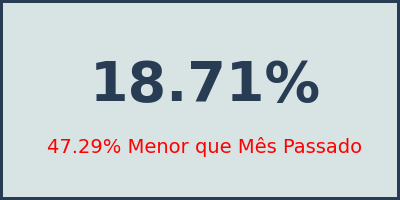
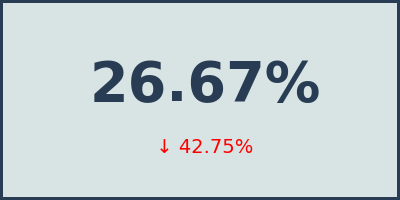
alteracoes e detalhes

diff --git a/clientes.py b/clientes.py
@@ -204,11 +204,11 @@ with fig_col1:
     fig.set_figheight(7)
 
 
-    plot_data[['Leads', 'Vendas']].plot(kind='bar', ax=ax,colormap='Paired')
+    plot_data[['Leads', 'Vendas']].plot(kind='bar', ax=ax, color=['#289c84', '#283c54'])
     plot_data['Proporção'].plot(kind='line', ax=ax, secondary_y=True, color='#289c84', marker='o')
 
     # Configurações do gráfico
-    ax.set_xlabel('Mês (Ano, Mês)')
+    ax.set_xlabel('Ano, Mês')
     ax.set_ylabel('Quantidade de Vendas')
     ax.right_ax.set_ylabel('Proporção de Conversão (Vendas / Leads)')
     plt.xticks(rotation=45)
@@ -234,7 +234,7 @@ with fig_col2:
     fig.set_linewidth(4)
     fig.set_edgecolor('#283c54')
     fig.set_figheight(6.5)
-    ax.hist(imoveis_a_venda['precoVenda'], bins=30, color='#289c84', edgecolor='black')
+    ax.hist(imoveis_a_venda['precoVenda'], bins=30, color='#283c54', edgecolor='black')
     
     # Adicionando a legenda com a quantidade de imóveis
     plt.text(x=max(imoveis_a_venda['precoVenda']), y=0.9*plt.gca().get_ylim()[1], s=f'Total de Imóveis: {total_imoveis}', 
@@ -243,7 +243,7 @@ with fig_col2:
     # Configurando título e eixos
 
     plt.xlabel('Preço de Venda')
-    plt.ylabel('Quantidade')
+    plt.ylabel('Quantidade de Imoveis')
     plt.grid(False)
 
     # Exibir o gráfico
@@ -287,7 +287,10 @@ with fig_col1:
     fig.set_linewidth(4)
     fig.set_edgecolor('#283c54')
     plt.text(0.5, 0.6, f'{qtd_leads_current_quarter}', ha='center', va='center', fontsize=40, color='#283c54', fontweight='bold')
-    plt.text(0.5, 0.2, f'{diferenca} em Comparação ao Anterior', ha='center', va='center', fontsize=14, color='red' if diferenca < 0 else 'green')
+    if(diferenca< 0):
+        plt.text(0.5, 0.2, f' ↓ {diferenca}', ha='center', va='center', fontsize=14, color='red' )
+    else:
+        plt.text(0.5, 0.2, f' ↑ {diferenca}', ha='center', va='center', fontsize=14, color='green')
     plt.axis('off')  # Desligar o eixo
     fig.savefig('current_quarter_leads.png')  # Save the figure as an image
     st.image('current_quarter_leads.png') 
@@ -318,7 +321,10 @@ with fig_col2:
     fig.set_edgecolor('#283c54')
     plt.text(0.5, 0.6, f'R${CAC_atual:.2f}', ha='center', va='center', fontsize=40, color='#283c54', fontweight='bold')
     diferenca_CAC = CAC_atual - CAC_anterior
-    plt.text(0.5, 0.2, f'R${diferenca_CAC:.2f} Mais Caro que no Mês Passado' if diferenca_CAC >  0 else f'R${diferenca_CAC:.2f} Mais Barato que no Mês Passado'  , ha='center', va='center', fontsize=14, color='red' if diferenca_CAC >  0 else 'green')
+    if diferenca_CAC > 0:
+        plt.text(0.5, 0.2, f' ↑ R${diferenca_CAC:.2f}', ha='center', va='center', fontsize=14, color='red')
+    else:
+        plt.text(0.5, 0.2, f' ↓ R${diferenca_CAC:.2f}', ha='center', va='center', fontsize=14, color='green')
     plt.axis('off')  # Desligar o eixo
     fig.savefig('last_month_CAC.png')  # Save the figure as an image
     st.image('last_month_CAC.png') 
@@ -340,14 +346,18 @@ with fig_col3:
     # Calculando o ROI atual e do mês anterior
     ROI_atual = (receita_mes_atual - custo_marketing_vendas) / custo_marketing_vendas * 100
     ROI_anterior = (receita_mes_anterior - custo_marketing_vendas) / custo_marketing_vendas * 100
-
+    ROI_diff = ROI_atual-ROI_anterior
     # Plotando o valor do ROI atual e a comparação com o mês anterior
     fig, ax = plt.subplots(figsize=(4,2))
     fig.patch.set_facecolor('#d8e4e4')
     fig.set_linewidth(4)
     fig.set_edgecolor('#283c54')
     plt.text(0.5, 0.6, f'{ROI_atual:.2f}%', ha='center', va='center', fontsize=40, color='#283c54', fontweight='bold')
-    plt.text(0.5, 0.2, f'{abs(ROI_atual - ROI_anterior):.2f}% Menor que Mês Passado' if ROI_atual - ROI_anterior <  0 else f'R${ROI_atual - ROI_anterior:.2f} Maior que Mês Passado', ha='center', va='center', fontsize=14, color='red' if ROI_atual - ROI_anterior < 0 else 'green')
+    if ROI_diff > 0:
+        plt.text(0.5, 0.2, f' ↑ {abs(ROI_diff):.2f}% ', ha='center', va='center', fontsize=14, color='green')
+    else:
+        plt.text(0.5, 0.2, f' ↓ {abs(ROI_diff):.2f}% ', ha='center', va='center', fontsize=14, color='red')
+    
     plt.axis('off')
     fig.savefig('ROAS.png')  # Save the figure as an image
     st.image('ROAS.png') 
@@ -362,7 +372,7 @@ with fig_col4:
 
     # Calculando a média de Days On Market para os imóveis vendidos
     average_days_on_market = imoveis['Days_On_Market'].dropna().mean()
-   
+    fake_last_average = average_days_on_market + random.randint(-12 , -8)
 
     # Plotting the average Days On Market
     fig, ax = plt.subplots(figsize=(4,2))
@@ -370,6 +380,7 @@ with fig_col4:
     fig.set_linewidth(4)
     fig.set_edgecolor('#283c54')
     plt.text(0.5, 0.6, f'{average_days_on_market} dias', ha='center', va='center', fontsize=40, color='#283c54', fontweight='bold')
+    plt.text(0.5, 0.2, f' ↓ {fake_last_average} dias',  ha='center', va='center', fontsize=14, color='green', fontweight='bold')
     plt.axis('off')
     fig.savefig('anoucement_time.png')  # Save the figure as an image
     st.image('anoucement_time.png') 
@@ -401,24 +412,22 @@ with fig_col1:
     cores = ['#283c54', '#285460', '#286c6c', '#288478', '#289c84']
 
     # Criar o gráfico de barras horizontal com cores diferentes
-    fig, ax = plt.subplots(figsize=(4,2))
+    fig, ax = plt.subplots(figsize=(14,2))
     fig.patch.set_facecolor('#d8e4e4')
-    fig.set_linewidth(4)
+    fig.set_linewidth(2)
     fig.set_edgecolor('#283c54')
-    fig.set_figwidth(6)
-    fig.set_figheight(5.8)
+    fig.set_figwidth(4)  # Aumentar a largura do gráfico
+    fig.set_figheight(3)
     leads_por_origem.plot(kind='barh', color=cores[:len(leads_por_origem)])
     plt.xlabel('Quantidade de Leads')
     plt.ylabel('Origem')
     plt.tight_layout()
-
 
     st.pyplot(fig)
 
 with fig_col2:
 
     st.markdown('### :grey[Tipos de Leads - Quarter Atual]')
-
 
     # Filtrar dados para o quarter atual
     quarter_atual = pd.Timestamp.now().quarter
@@ -433,25 +442,26 @@ with fig_col2:
     # Criar gráfico de pizza aberto com as cores específicas
     fig, ax = plt.subplots(figsize=(4,2))
     fig.patch.set_facecolor('#d8e4e4')
-    fig.set_linewidth(2)
+    fig.set_linewidth(1)  # Reduzir a espessura da borda
     fig.set_edgecolor('#283c54')
-    fig.set_figheight(2)
-    contagem_leads.plot(kind='pie', autopct='%1.1f%%', startangle=140, colors=cores, wedgeprops=dict(width=0.3), textprops={'fontsize': 6})
+    fig.set_figheight(3)  # Aumentar a altura da figura
+    fig.set_figwidth(4)  
+    contagem_leads.plot(kind='pie', autopct='%1.1f%%', startangle=140, colors=cores, wedgeprops=dict(width=0.3), textprops={'fontsize': 8})  # Aumentar o tamanho da fonte
     plt.ylabel('')  # Remover o label do eixo y
 
-    st.pyplot(fig)  
+    st.pyplot(fig, dpi=300)  # Aumentar a resolução da imagem
 
-with fig_col3:
-    st.markdown('### :grey[Funil de Marketing]')
+# with fig_col3:
+#     st.markdown('### :grey[Funil de Marketing]')
 
-    fig, ax = plt.subplots(figsize=(4,2))
-    fig.patch.set_facecolor('#d8e4e4')
-    fig.set_linewidth(4)
-    fig.set_edgecolor('#283c54')
-    plt.text(0.5, 0.6, 'PLACEHOLDER', ha='center', va='center', fontsize=40, color='#283c54', fontweight='bold')
-    plt.axis('off')
-    fig.savefig('anoucement_time.png')  # Save the figure as an image
-    st.image('anoucement_time.png') 
+#     fig, ax = plt.subplots(figsize=(4,2))
+#     fig.patch.set_facecolor('#d8e4e4')
+#     fig.set_linewidth(4)
+#     fig.set_edgecolor('#283c54')
+#     plt.text(0.5, 0.6, 'PLACEHOLDER', ha='center', va='center', fontsize=40, color='#283c54', fontweight='bold')
+#     plt.axis('off')
+#     fig.savefig('anoucement_time.png')  # Save the figure as an image
+#     st.image('anoucement_time.png') 
 
     
 

diff --git a/imoveis.py b/imoveis.py
@@ -194,7 +194,7 @@ with fig_col2:
     # Data to plot
     labels = ['Alugado', 'Vago']
     data = [percent_rent, 100-percent_rent]
-    colors = ['#289c84', '#9ba8a8']   # Gold for sold, Light blue for available
+    colors = ['#289c84', '#9ba8a8']   
 
     # Plotting the data
     fig, ax = plt.subplots()
